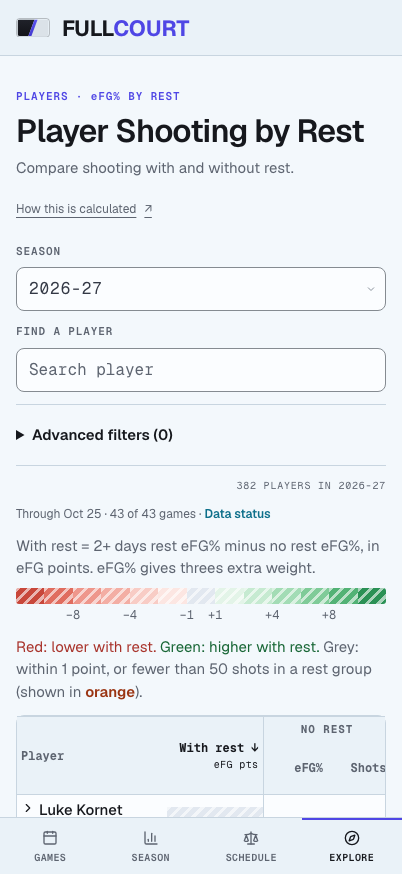
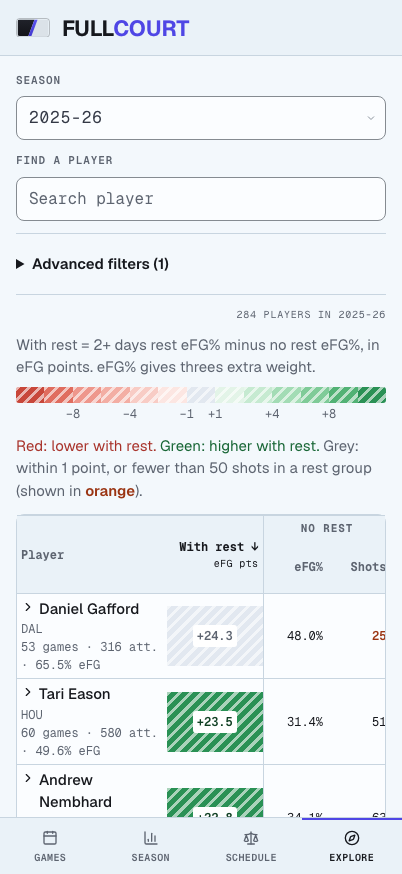
docs: recapture Shooting screenshots on the completed 2025-26 season

diff --git a/README.md b/README.md
@@ -58,18 +58,18 @@ Selected views remain shareable through URLs and browser history.
 
 Captured from [fullcourt.fyi](https://fullcourt.fyi) on 2026-10-27 at v1.3.2 (`8419bb8f`);
 [capture details and reproduction](docs/screenshots/README.md). Desktop images show historical
-Games and the current published studies. Phone images use 375px and 402px Chromium viewports.
+Games, the completed 2025-26 Shooting season and current Officiating. Phone images use 375px and 402px Chromium viewports.
 Physical iPhone, Safari and VoiceOver behavior remains unverified; live data can change.
 
 <img src="docs/screenshots/games.png" alt="Games board for December 2, 2024: season and date controls above four matchups, two marked MEDIUM REST EDGE and one LARGE REST EDGE." width="900" />
 
-<img src="docs/screenshots/shooting.png" alt="Player shooting table for the 2026-27 season to date, with the rest difference beside each player and eFG% and shots under No rest and 2+ days rest; early-season differences stay grey below 50 shots per rest group." width="900" />
+<img src="docs/screenshots/shooting.png" alt="Player shooting table for the completed 2025-26 season, with the rest difference beside each player and eFG% and shots under No rest and 2+ days rest; differences stay grey within 1 point or below 50 shots per rest group." width="900" />
 
 <img src="docs/screenshots/officiating.png" alt="Officiating page showing the missed-call share, season context and a link to game reviews." width="900" />
 
 <p>
 <img src="docs/screenshots/games-mobile-375.png" alt="Games at 375px: compact date controls and a complete historical matchup above the bottom navigation." width="250" />
-<img src="docs/screenshots/shooting-mobile-402.png" alt="Shooting at 402px: player search, collapsed advanced filters, the rest difference color key and the top of the table with the rest difference beside the player." width="268" />
+<img src="docs/screenshots/shooting-mobile-402.png" alt="Shooting at 402px for 2025-26: season picker, player search, collapsed advanced filters, the rest difference color key and the first table rows with the rest difference beside each player." width="268" />
 <img src="docs/screenshots/schedule-mobile-402.png" alt="Schedule Edge at 402px: season controls, summary and team ranking before detailed status." width="268" />
 </p>
 

diff --git a/docs/screenshots/README.md b/docs/screenshots/README.md
@@ -5,14 +5,17 @@ verified at commit `8419bb8f8a62f06206255119f802103a1288cc68`, Ready deployment
 `dpl_DxhVk7bmFU6YapGjtCxmRuMAPJQi`. [manifest.json](manifest.json) records each URL,
 viewport, timestamp and page width. These are real rendered pages with live APIs, without
 fixture substitution or image retouching. Data and default published seasons can change.
+The two Shooting images were recaptured the same day at the completed 2025-26 season
+(`?year=2025`) from deployment `dpl_7AAkjSBHZkFLc76iQwj1QhrBpWCx` (commit `0ce35fe2`, a
+docs-only change over `8419bb8f`); the phone view starts at the season picker.
 
 | Image | View |
 | --- | --- |
 | [games.png](games.png) | Desktop historical Games, 2024-12-02 |
-| [shooting.png](shooting.png) | Desktop Shooting, latest published default |
+| [shooting.png](shooting.png) | Desktop Shooting, 2025-26 season |
 | [officiating.png](officiating.png) | Desktop Officiating overview and reviews |
 | [games-mobile-375.png](games-mobile-375.png) | Games at 375 × 812 CSS pixels |
-| [shooting-mobile-402.png](shooting-mobile-402.png) | Shooting at 402 × 874 CSS pixels |
+| [shooting-mobile-402.png](shooting-mobile-402.png) | Shooting at 402 × 874 CSS pixels, 2025-26, scrolled to the season picker |
 | [schedule-mobile-402.png](schedule-mobile-402.png) | Schedule Edge at 402 × 874 CSS pixels |
 
 [Social preview](../social-preview.png) was fetched from the live `/opengraph-image` endpoint
